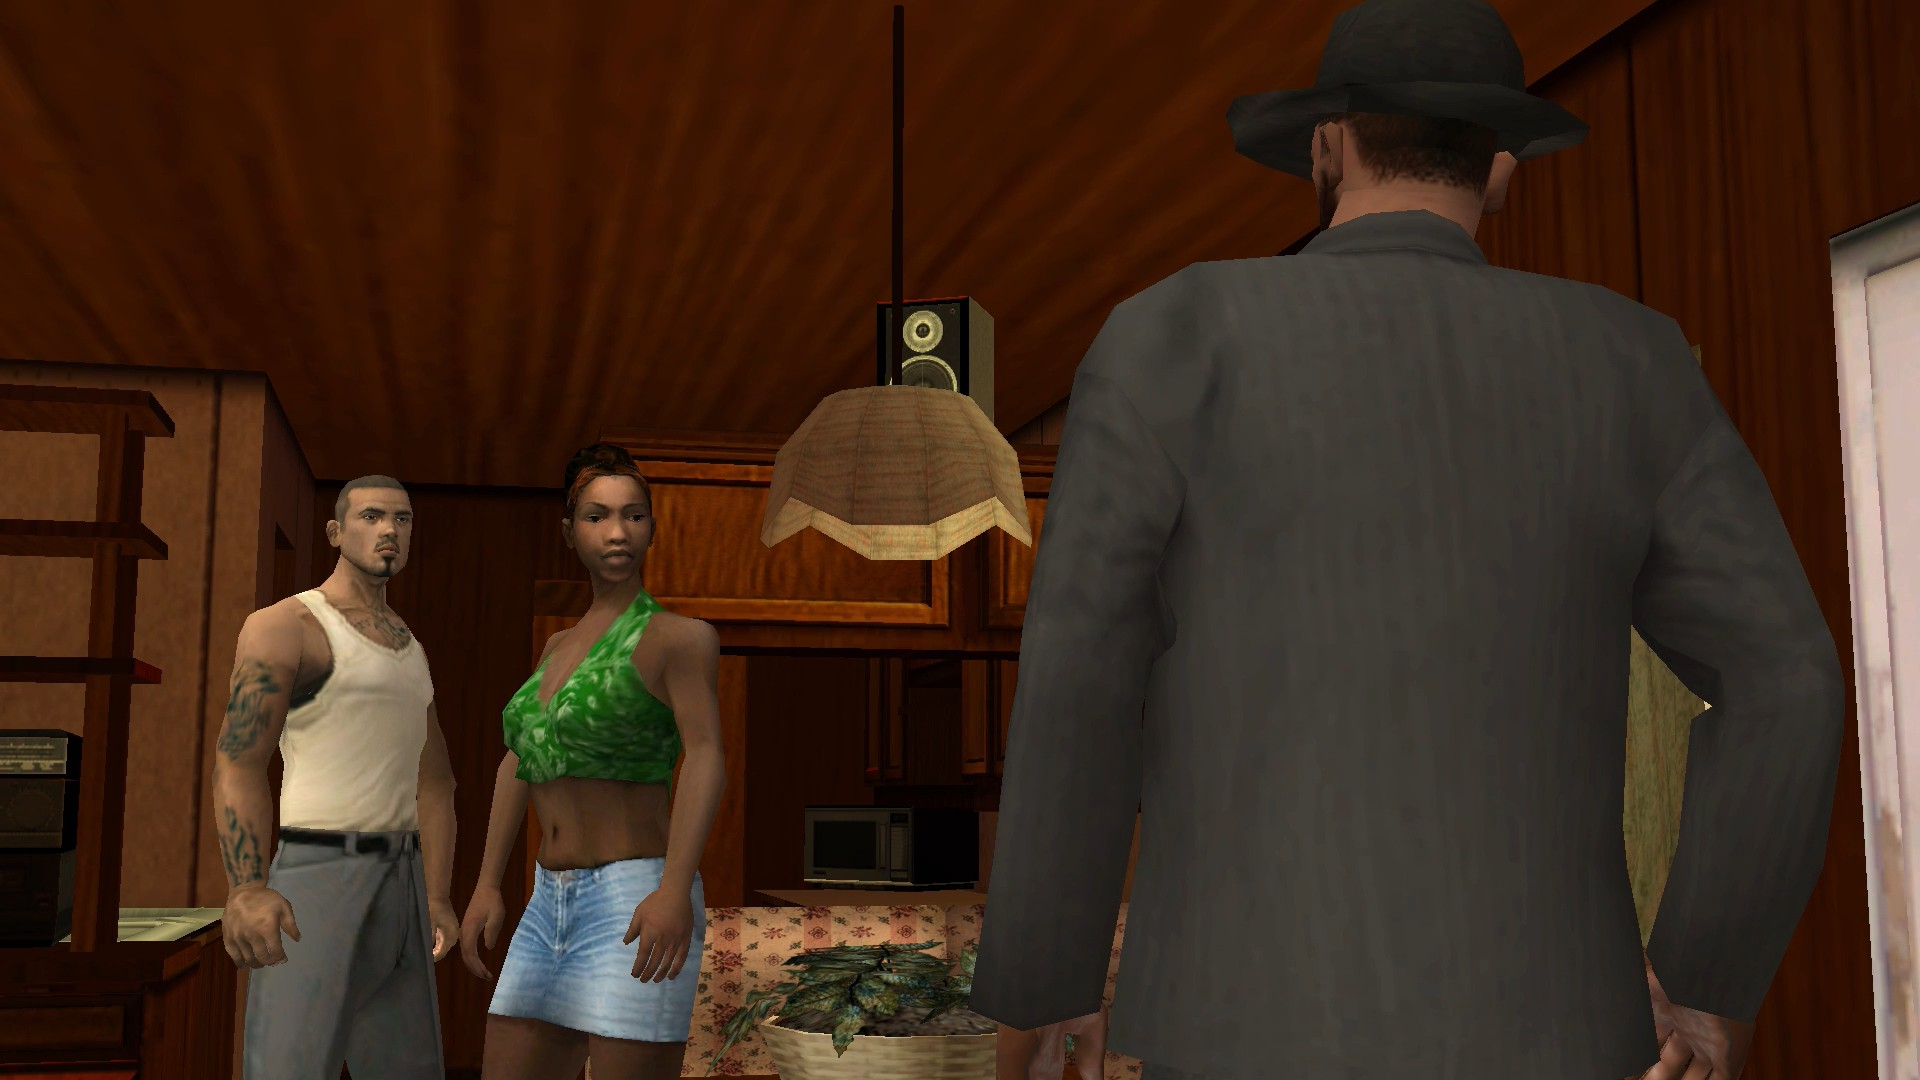
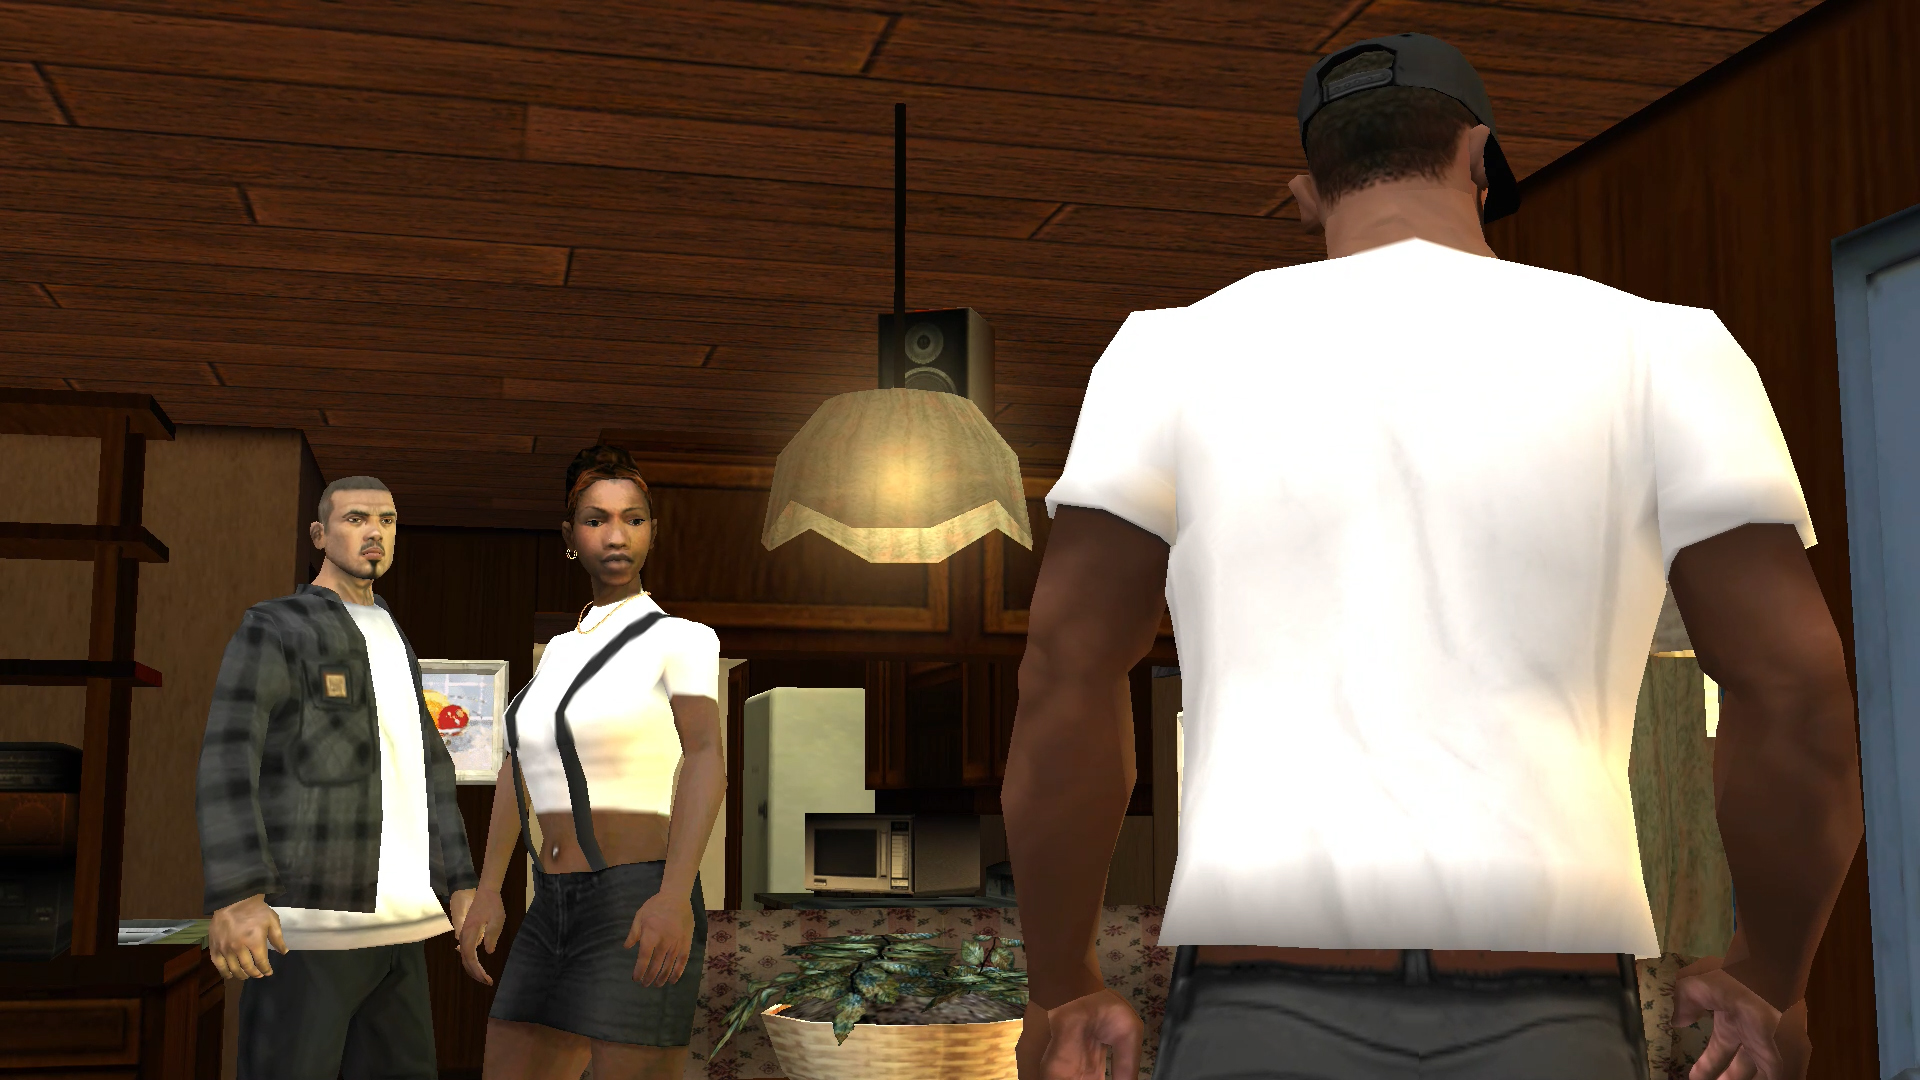
update

diff --git a/changelog.md b/changelog.md
@@ -30,6 +30,7 @@
 - Impaler added on traffic.
 - CRASH has new outfits outside LS
 - CRASH uses Unmarked Vehicle outside LS (4 color options in extras)
+- Cesar and Kendl have new outfits outside LS
 
 #Updates
 - Moved all scripts to a single folder and only one script is running when the mission thread is active. Thus, memory and game are not overloaded
@@ -476,6 +477,8 @@
 - Drugs added on the table
 
 # King in Exile
+- We see deagle in cutscene now
+- New deagle model added
 - Cesar's grip on kendl improved
 - CJ’s Neck Fixed
 - Fixed Camera being in the closet
@@ -485,9 +488,19 @@
 - Catalina’s Pistol grip fixed
 - Fixed Catalina's mouth not moving
 
-#Gone Courting
+# Gone Courting
 - Door’s prelight fixed
 
-#Made in Heaven
+# Made in Heaven
 - Door’s prelight fixed
 - Camera translation fixed
+
+# Wu Zi Mu
+- Cesar arrives at the race track in his car
+- Claude has new model and his car improved
+- Cutscene peds fixed and improved in this scene
+- Woozie’s race car added
+- Zr-350 improved
+- Money model improved
+- CJ’s object holdings fixed
+- New business card added for woozie and its animation fixed

diff --git a/readme.md b/readme.md
@@ -64,6 +64,7 @@
 - New Effects
 - Animation Fixes
 - Some Gangs
+- New Cesar Outfit
 
 **brooklynzsmac**
 - Stewardess
@@ -101,6 +102,7 @@
 **TareqGamer**
 - Sweet Wounded
 - Tdb3 head model
+- New Cesar Outfit Fix
 
 **MisterA**
 - Support & Analyst
@@ -124,6 +126,8 @@
 
 **endochronic**
 - CRASH Redesigned
+- New Cesar Outfit Model Base
+- Kendl Redesigned
 
 **Matt1010**
 - Artwork Smoke
